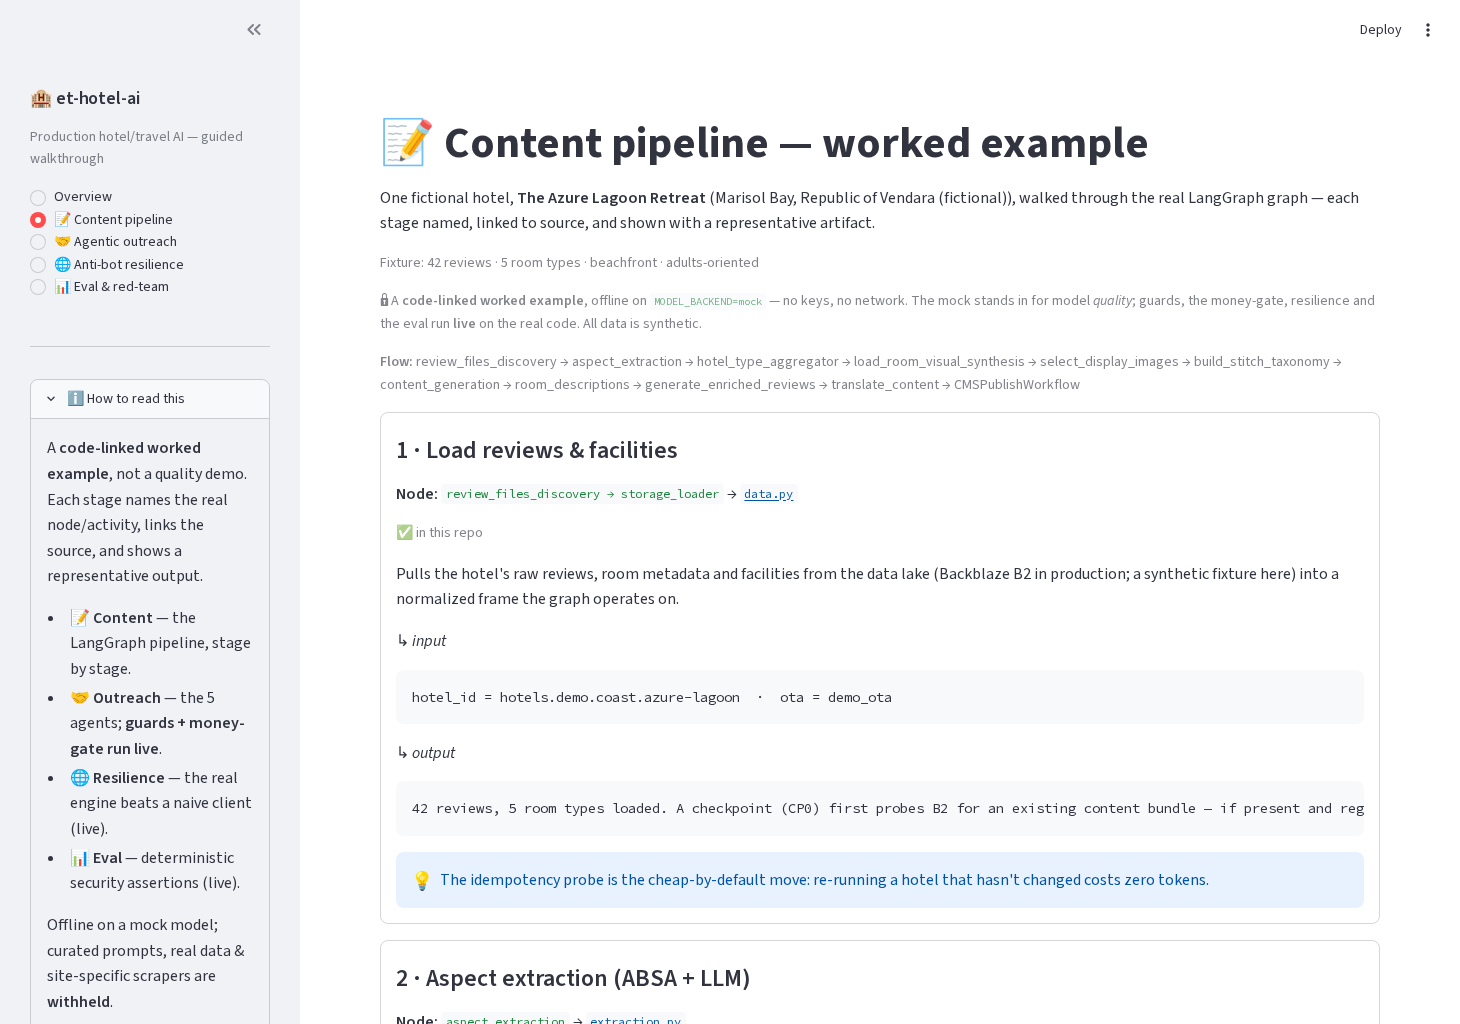
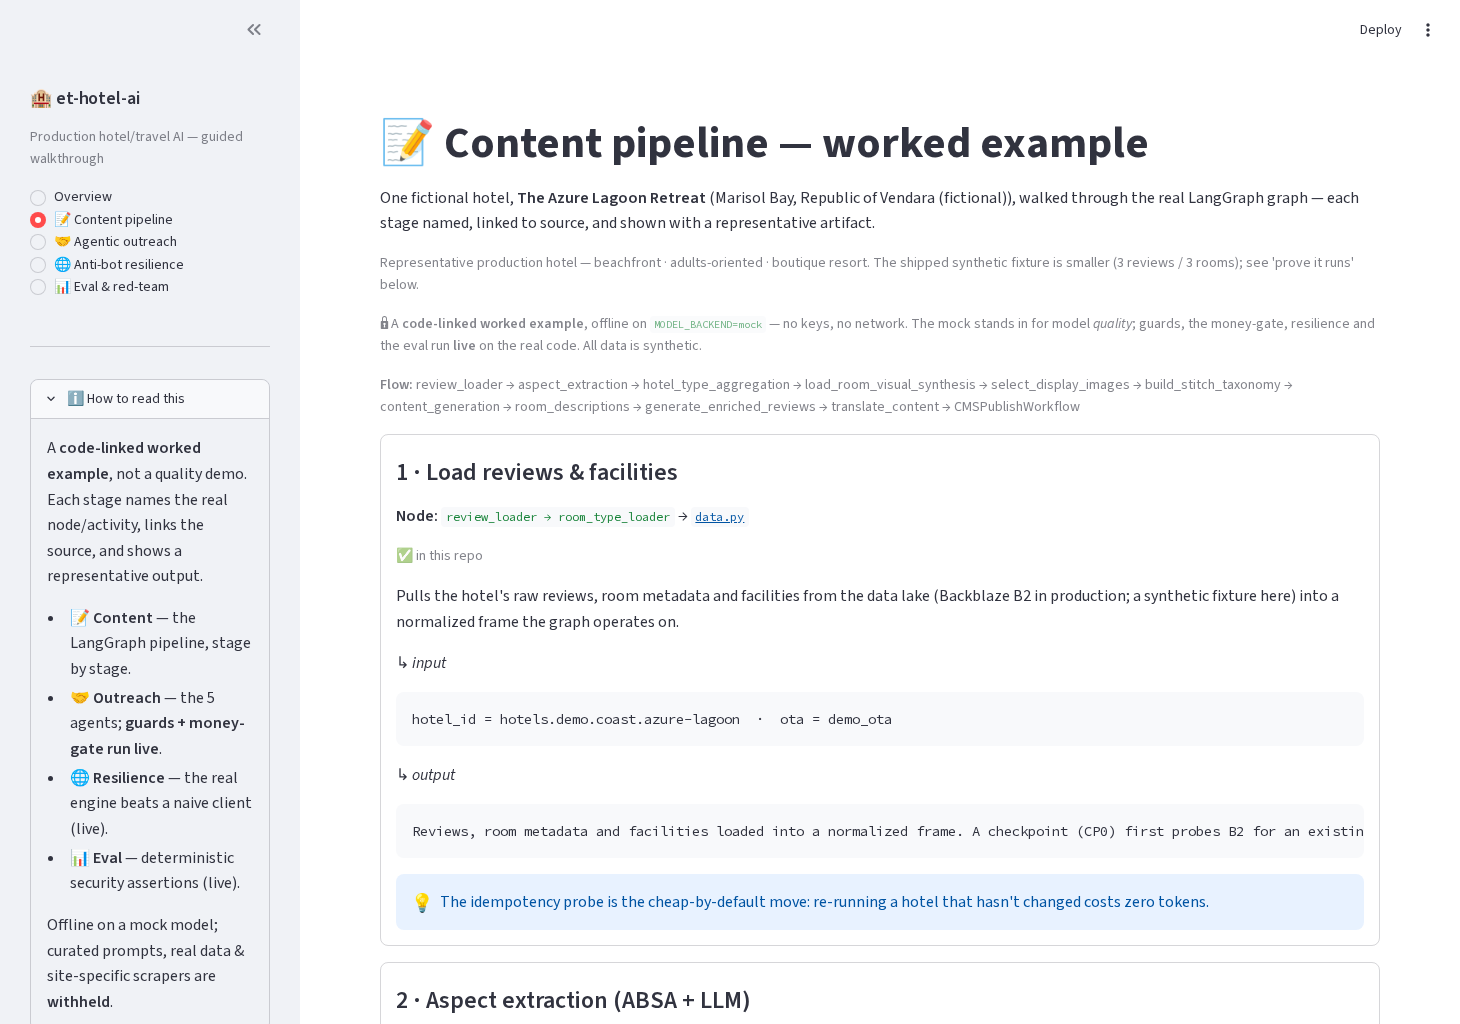
docs: accuracy sweep — correct OWASP scope, fixture counts, node names
Independent fact-check pass over the public material. Fixes:

- OWASP: reword "hardened against the OWASP LLM Top-10" to name the five
  risks actually addressed (LLM01/02/06/08/10) in README + dashboard +
  METHODS heading; the system maps 5 of the 10, not all 10.
- Reproducibility: drop the fabricated "Faker(seed=0) fixtures" recipe
  (Faker is not a dependency) -> static synthetic JSON + seeded hostile
  endpoint + mock model.
- Shipped weak-model reports (results/outreach_*): add "illustrative
  weak-model run, not the production result" headers so mistral-7b's
  37/44 and ~28% aren't misread as contradicting the 42/42 / 92.2%
  production headline; note the 7 red-team misroutes are still blocked
  by the fail-closed money-gate (no unsafe send, no leak).
- Walkthrough node labels now match the registered graph nodes
  (review_loader -> room_type_loader; hotel_type_aggregation).
- Remove fabricated "42 reviews / 5 room types / 8 images" counts from
  the content walkthrough (the synthetic fixture is 3 reviews / 3 rooms).
- Python badge 3.12+ -> 3.11 | 3.12 (CI matrix); deploy topology ~14 -> ~17.
- Refresh dashboard screenshots.

diff --git a/walkthroughs.py b/walkthroughs.py
@@ -24,14 +24,14 @@ def code(path: str | None) -> str | None:
 CONTENT_HOTEL = {
     "name": "The Azure Lagoon Retreat",
     "location": "Marisol Bay, Republic of Vendara (fictional)",
-    "signals": "42 reviews · 5 room types · beachfront · adults-oriented",
+    "signals": "beachfront · adults-oriented · boutique resort",
 }
 
 # stage: title, node, file (repo-relative or None), model, in_repo, what, sample_in, sample_out, why
 CONTENT_STAGES = [
     {
         "title": "1 · Load reviews & facilities",
-        "node": "review_files_discovery → storage_loader",
+        "node": "review_loader → room_type_loader",
         "file": "llm_content_generation/et_langgraph/nodes/data.py",
         "model": None,
         "in_repo": True,
@@ -39,9 +39,9 @@ CONTENT_STAGES = [
                 "data lake (Backblaze B2 in production; a synthetic fixture here) into a "
                 "normalized frame the graph operates on.",
         "sample_in": "hotel_id = hotels.demo.coast.azure-lagoon  ·  ota = demo_ota",
-        "sample_out": '42 reviews, 5 room types loaded. A checkpoint (CP0) first probes B2 '
-                      'for an existing content bundle — if present and regenerate=False, the '
-                      'whole run short-circuits (no LLM spend).',
+        "sample_out": 'Reviews, room metadata and facilities loaded into a normalized frame. '
+                      'A checkpoint (CP0) first probes B2 for an existing content bundle — if '
+                      'present and regenerate=False, the whole run short-circuits (no LLM spend).',
         "why": "The idempotency probe is the cheap-by-default move: re-running a hotel that "
                "hasn't changed costs zero tokens.",
     },
@@ -67,7 +67,7 @@ CONTENT_STAGES = [
     },
     {
         "title": "3 · Hotel-type classification",
-        "node": "hotel_type_aggregator",
+        "node": "hotel_type_aggregation",
         "file": "llm_content_generation/et_langgraph/nodes/hotel_type_aggregator.py",
         "model": "llama-3.3-70b-instruct",
         "in_repo": True,
@@ -86,7 +86,7 @@ CONTENT_STAGES = [
         "in_repo": False,
         "what": "A vision-language model analyzes each property/room photo → structured "
                 "visual attributes + alt-text (lighting, view, layout, standout features).",
-        "sample_in": "12 property photos + 5 room-type galleries (from B2)",
+        "sample_in": "the property photos + per-room galleries (from B2)",
         "sample_out": 'suite_ocean_1.jpg → {"view": "lagoon", "light": "bright, natural", '
                       '"features": ["private balcony", "freestanding tub"], '
                       '"alt": "Ocean-view suite with a private balcony over the lagoon"}',
@@ -163,7 +163,7 @@ CONTENT_STAGES = [
         "in_repo": False,
         "what": "Synthesizes the review corpus into a fair, evidence-grounded summary "
                 "(pros/cons) rather than cherry-picking.",
-        "sample_in": "42 reviews + extracted aspects",
+        "sample_in": "the review corpus + extracted aspects",
         "sample_out": "\"Guests love the suites, the breakfast and the service; the most "
                       "common caveat is the distance from town and limited late-night dining.\"",
         "why": "Grounded in the aspect evidence, so the summary can't drift into marketing "
@@ -194,7 +194,7 @@ CONTENT_STAGES = [
                 "bundle, upserts it into Directus, and verifies the publish — failing loud so "
                 "the parent pipeline degrades to partial_success honestly.",
         "sample_in": "the assembled content bundle (from B2)",
-        "sample_out": "Directus: hotel upserted · 5 rooms · 3 languages · 8 images linked · verified",
+        "sample_out": "Directus: hotel upserted · rooms + multilingual content + images linked · verified",
         "why": "Publish is a money/observable action, so it's its own workflow with an "
                "explicit verify step, not a fire-and-forget call.",
     },
@@ -219,7 +219,7 @@ def _outreach_common(reply_text: str, hostile: bool) -> list[dict]:
             "what": "Reads the hotel's public reviews and extracts a genuine, specific "
                     "personalization hook as a validated `ReviewHook` (staff names / PII "
                     "are nulled at the Pydantic boundary).",
-            "sample_in": "42 reviews for The Azure Lagoon Retreat",
+            "sample_in": "the hotel's public reviews",
             "sample_out": 'ReviewHook(tier=3, hook_text="the rooftop breakfast keeps coming '
                           'up", evidence_quote="the rooftop breakfast was a highlight")',
             "why": "The hook must be real (not flattery) — `ReviewHook` validators reject "

diff --git a/streamlit_app.py b/streamlit_app.py
@@ -234,8 +234,9 @@ def page_overview() -> None:
         "→ Qwen-VL photo analysis + image selection → per-operation model routing → multilingual "
         "listings.\n"
         "- **Temporal 5-agent cold-outreach engine** — mines review hooks, opens & qualifies "
-        "conversations autonomously, hardened against the **OWASP LLM Top-10** with a "
-        "**deterministic, fail-closed money-gate**.\n"
+        "conversations autonomously, hardened against the OWASP-LLM risks it faces "
+        "(prompt injection, output leakage, excessive agency, unbounded consumption — "
+        "LLM01/02/06/08/10) with a **deterministic, fail-closed money-gate**.\n"
         "- **Resilient distributed fetcher** — proxy rotation + failover, circuit breaking, "
         "rate limiting, backoff-with-jitter."
     )
@@ -250,7 +251,7 @@ def page_overview() -> None:
 
     c1, c2, c3 = st.columns(3)
     c1.metric("Router accuracy", "92.2%", help="Agent E exact-match, production 70B model")
-    c2.metric("Red-team defended", "42/42", help="injection / jailbreak / funnel-abuse / STOP")
+    c2.metric("Red-team defended", "42/42", help="injection / jailbreak / funnel-abuse / STOP — production 70B model, reproduce live (the offline mock ships a weak-model illustrative run)")
     c3.metric("Resilience fetch", "60/60", help="engine vs 15/60 for a naive client")
 
     st.subheader("Architecture — the content pipeline run")
@@ -275,7 +276,8 @@ def page_content() -> None:
         f"One fictional hotel, **{wt.CONTENT_HOTEL['name']}** ({wt.CONTENT_HOTEL['location']}), "
         "walked through the real LangGraph graph — each stage named, linked to source, and "
         "shown with a representative artifact.")
-    st.caption(f"Fixture: {wt.CONTENT_HOTEL['signals']}")
+    st.caption(f"Representative production hotel — {wt.CONTENT_HOTEL['signals']}. The shipped "
+               "synthetic fixture is smaller (3 reviews / 3 rooms); see 'prove it runs' below.")
     offline_badge()
 
     nodes = " → ".join(s["node"].split(" ")[0].split("(")[0] for s in wt.CONTENT_STAGES)

diff --git a/README.md b/README.md
@@ -9,7 +9,7 @@
 [![CI](https://img.shields.io/github/actions/workflow/status/baranlanka/et-hotel-ai-showcase/ci.yml?branch=main&label=CI)](https://github.com/baranlanka/et-hotel-ai-showcase/actions)
 [![Live demo](https://img.shields.io/badge/live%20demo-Streamlit-FF4B4B?logo=streamlit&logoColor=white)](https://et-hotel-ai-showcase.streamlit.app)
 [![eval](https://img.shields.io/badge/eval-reproducible%20offline-brightgreen)](#results--evaluation)
-![Python](https://img.shields.io/badge/python-3.12+-3776AB?logo=python&logoColor=white)
+![Python](https://img.shields.io/badge/python-3.11%20%7C%203.12-3776AB?logo=python&logoColor=white)
 [![License: MIT](https://img.shields.io/github/license/baranlanka/et-hotel-ai-showcase)](LICENSE)
 
 </div>
@@ -43,7 +43,7 @@ Effective Tours needed two things a small team can't do by hand at scale: **(1)*
 This repo is the engineering answer to both — two product lines plus a shared ingestion layer, **all running as durable [Temporal](https://temporal.io) workflows** (content generation, scraping, proxy management, and outreach are each Temporal activities across ~10 worker services — the platform's shared backbone for retries, recovery, and distributed tracing):
 
 - **A LangGraph multi-model content pipeline** — ingest hotel data → extract aspects (a fine-tuned ABSA model + LLM) → **analyze property & room photos with a Qwen-VL vision model and select the best display images** → generate overviews, room descriptions, and review summaries → translate → publish. Each operation is routed to a **different, cost-appropriate model** via an LLM factory.
-- **A Temporal-orchestrated, 5-agent cold-outreach engine** — it mines personalization hooks from reviews, opens a conversation, qualifies replies, and drives a funnel *autonomously* — hardened against the OWASP **LLM Top-10** (prompt injection, output leakage, excessive agency) with a **deterministic, fail-closed "money-action" gate** and a **reproducible red-team + eval harness**.
+- **A Temporal-orchestrated, 5-agent cold-outreach engine** — it mines personalization hooks from reviews, opens a conversation, qualifies replies, and drives a funnel *autonomously* — hardened against the OWASP-LLM risks it actually faces (prompt injection, insecure output handling, sensitive-info disclosure, excessive agency, unbounded consumption — **LLM01/02/06/08/10**) with a **deterministic, fail-closed "money-action" gate** and a **reproducible red-team + eval harness**.
 - **A resilient distributed fetcher** — the ingestion backbone that reliably pulled hotel data through production-grade, *adaptive* anti-bot defenses (WAF-style rate limiting, IP-reputation bans, fingerprint & bot-challenges): a rotating proxy pool with failover, per-request browser/TLS fingerprint synthesis, circuit breaking, and rate limiting. *Targets and purpose are withheld; a neutral, self-hosted resilience PoC is included — see [below](#resilient-distributed-fetcher).*
 
 > **Cheap-open-model engineering — deliberately hard mode.** Every result here was produced with *cheap, open, non-frontier* models routed **per operation** — **Llama-3.3-70B** (aspect extraction · classification · routing), **DeepSeek-V3.2** (generation · translation · outreach), **Qwen3-VL-32B** (vision), **Mistral-Small-24B** (a separate validator) via OpenRouter — **never GPT-5 or Claude.** Each operation's model is set in its **Langfuse prompt config**, so routing is tuned without a deploy. Hitting production quality this way (per-operation routing + curated prompting + structured outputs + hard guardrails) *is* the engineering — a frontier model would make the same task trivial and cost far more.

diff --git a/METHODS.md b/METHODS.md
@@ -60,7 +60,7 @@ Conflating the two is the usual way LLM eval numbers become unfalsifiable. Keepi
 | `run_outreach_multiturn` | Do funnel invariants hold across a whole conversation? | Multi-persona multi-turn transcripts (crescendo jailbreak, exfiltration-over-turns, funnel rusher…) asserting the money-gate never auto-fires |
 | `run_outreach_live_eval` | How accurate is the router, and are drafts honest? | Exact-match over a synthetic golden set + an LLM judge for opener/qualifier honesty |
 
-### 5.3 OWASP-LLM Top-10 mapping
+### 5.3 OWASP-LLM risk mapping (the five risks that apply)
 
 | OWASP-LLM risk | Control in this system |
 |---|---|
@@ -78,7 +78,7 @@ Conflating the two is the usual way LLM eval numbers become unfalsifiable. Keepi
 
 ### 5.5 Reproducibility
 
-The mock backend is deterministic and **not rigged**: it returns a fixed neutral routing class, so the offline router accuracy prints an obviously-low, clearly-labeled illustrative figure (~28%), never the production 92.2%. What reproduces offline is the *methodology and the deterministic guarantees*; the accuracy is a production measurement re-runnable against any live model. `pinned deps + Faker(seed=0) fixtures + mock model` ⇒ byte-identical results on any machine.
+The mock backend is deterministic and **not rigged**: it returns a fixed neutral routing class, so the offline router accuracy prints an obviously-low, clearly-labeled illustrative figure (~28%), never the production 92.2%. What reproduces offline is the *methodology and the deterministic guarantees*; the accuracy is a production measurement re-runnable against any live model. `pinned deps + static synthetic JSON fixtures + a seeded (1337) hostile endpoint + mock model` ⇒ byte-identical results on any machine.
 
 ## 6. Trade-offs & lessons
 

diff --git a/docs/architecture/ARCHITECTURE.md b/docs/architecture/ARCHITECTURE.md
@@ -141,7 +141,7 @@ sequenceDiagram
 flowchart LR
     GH[GitHub Actions] -->|build| GHCR[(GHCR image)]
     GHCR -->|auto-deploy| KM[Komodo]
-    KM --> HZ[Hetzner host<br/>~14 services via docker-compose]
+    KM --> HZ[Hetzner host<br/>~17 services via docker-compose]
     HZ --- TS[Tailscale / Cloudflare Tunnel]
     HZ --> OTEL[OTel collector → Tempo/Loki/Prometheus/Grafana]
 ```
